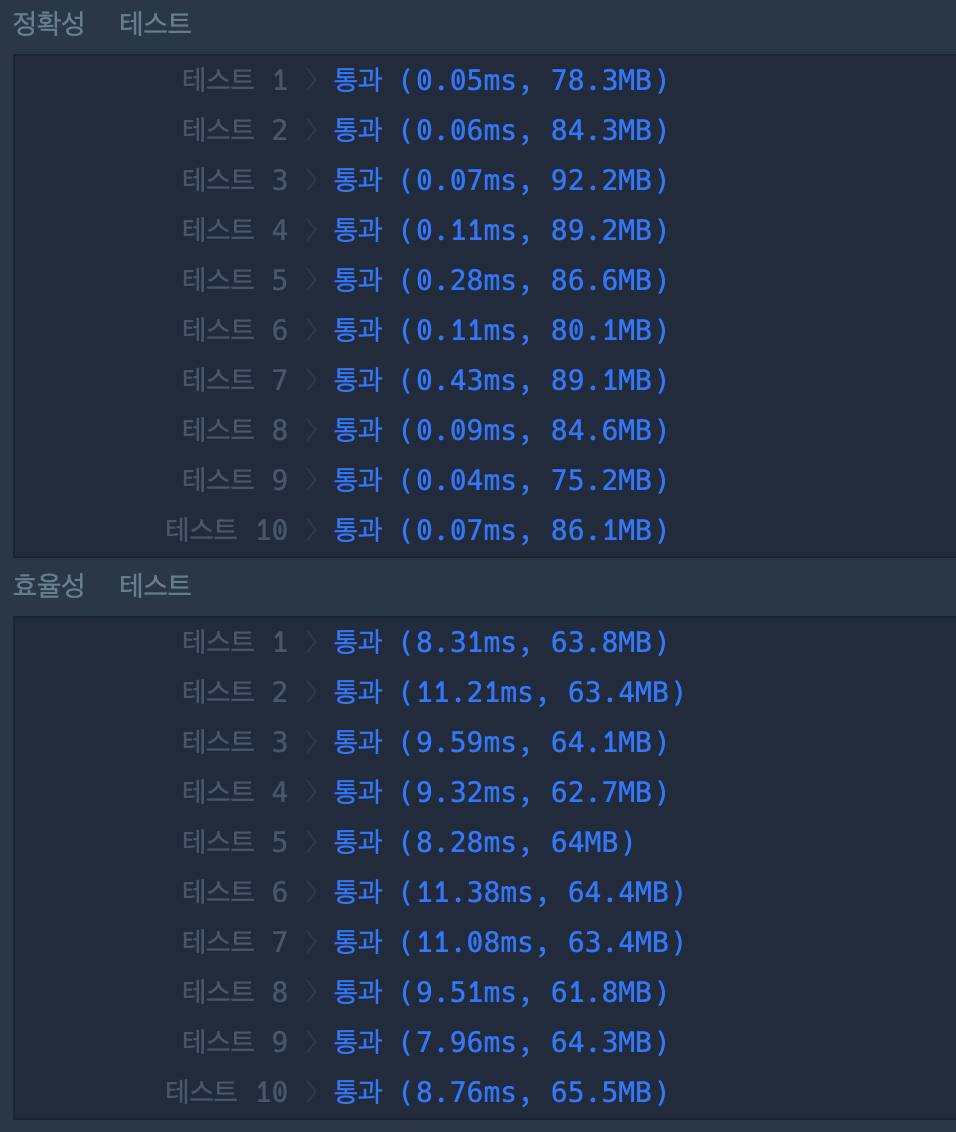
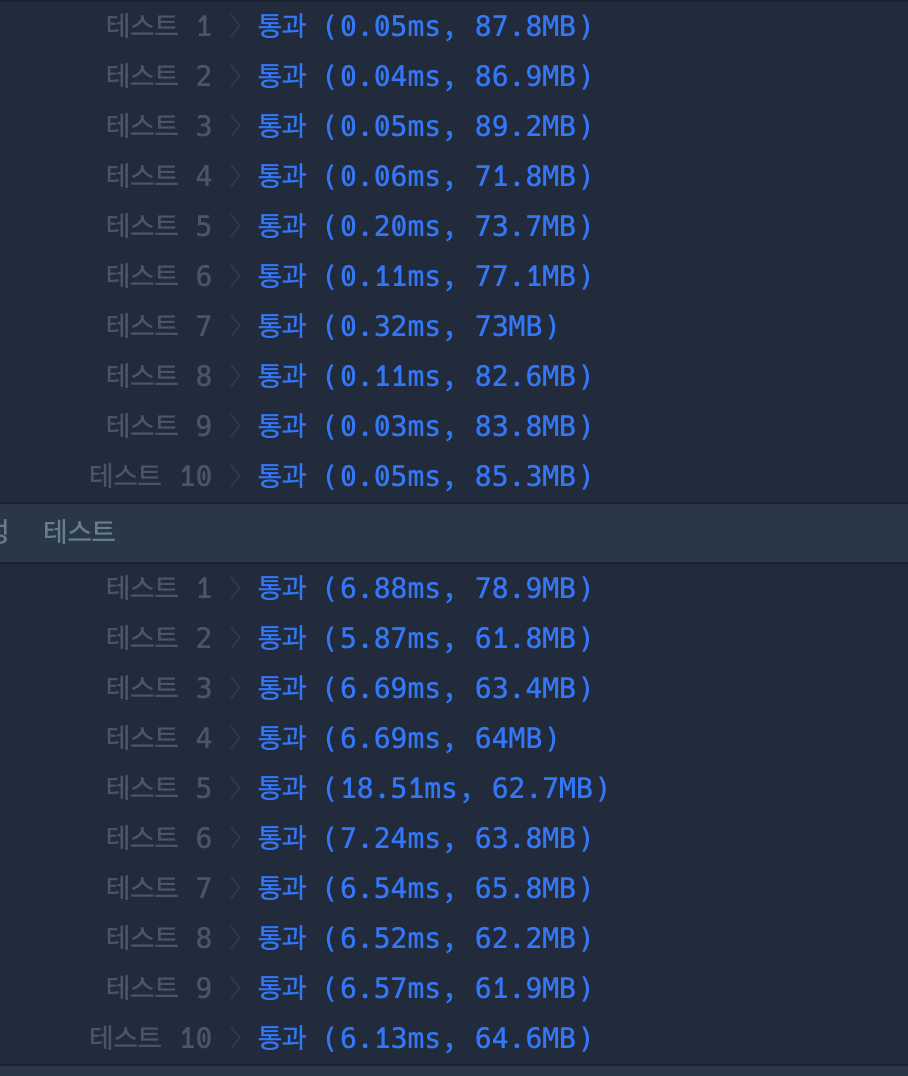
[Level3]정수삼각형_20250211 김민수 제출

diff --git a/DP/[Level3]정수삼각형_20250211/minsukim9900/code.md b/DP/[Level3]정수삼각형_20250211/minsukim9900/code.md
@@ -6,36 +6,28 @@ class Solution {
     
     public int solution(int[][] triangle) {
         
-        int size = triangle.length;
-        
-        int[][] dp = new int[size + 1][triangle[size-1].length];
-        
-        dp[1][0] = triangle[0][0];
-        
-        if(size >= 2) {
-            dp[2][0] = triangle[1][0];
-            dp[2][1] = triangle[1][1];
+            int size = triangle.length;
             
-            for (int i = 3; i<= size; i++) {
+            for (int i = 1; i< size; i++) {
                 
-                for(int j = 0; j < triangle[i - 1].length; j++) {
-                    int tmp = j - 1;
-                    if(tmp < 0) tmp = 0;
+                triangle[i][0] += triangle[i-1][0];
+                triangle[i][triangle[i].length-1] += triangle[i-1][triangle[i].length-2];
+                
+                for(int j = 1; j < i; j++) {
                     
-                    dp[i][j] = Math.max(dp[i-1][tmp], dp[i-1][j]) + triangle[i-1][j];
+                    triangle[i][j] += Math.max(triangle[i-1][j-1], triangle[i-1][j]);
                     
                 }
                 
             }
             
-        }
         
         int max = 0;
-        for(int m : dp[size]) {
+        for(int m : triangle[size - 1]) {
             max = Math.max(max, m);
         }
         
-        return max + triangle[0][0];
+        return max;
        
     }
     
@@ -43,5 +35,4 @@ class Solution {
 }
 ```
 
-### 실행결과
 [!img.png](img.png)
